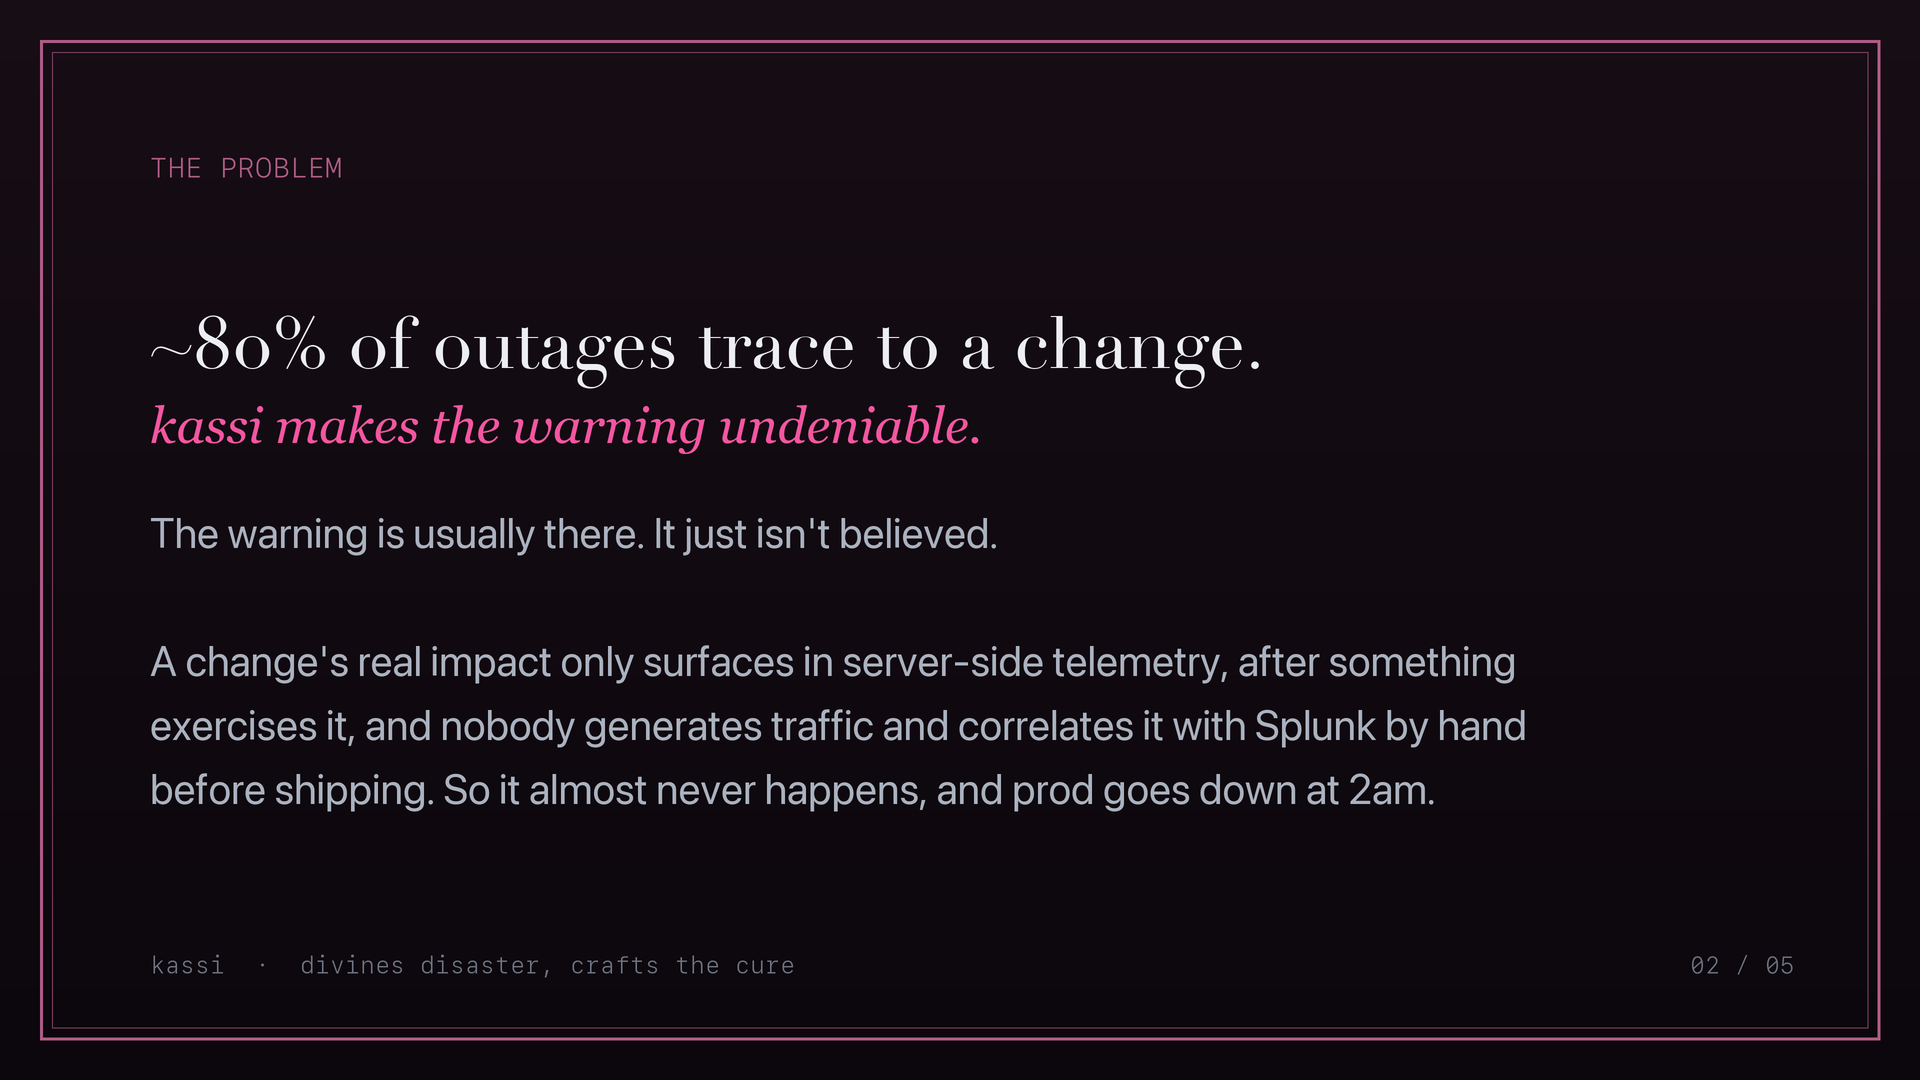
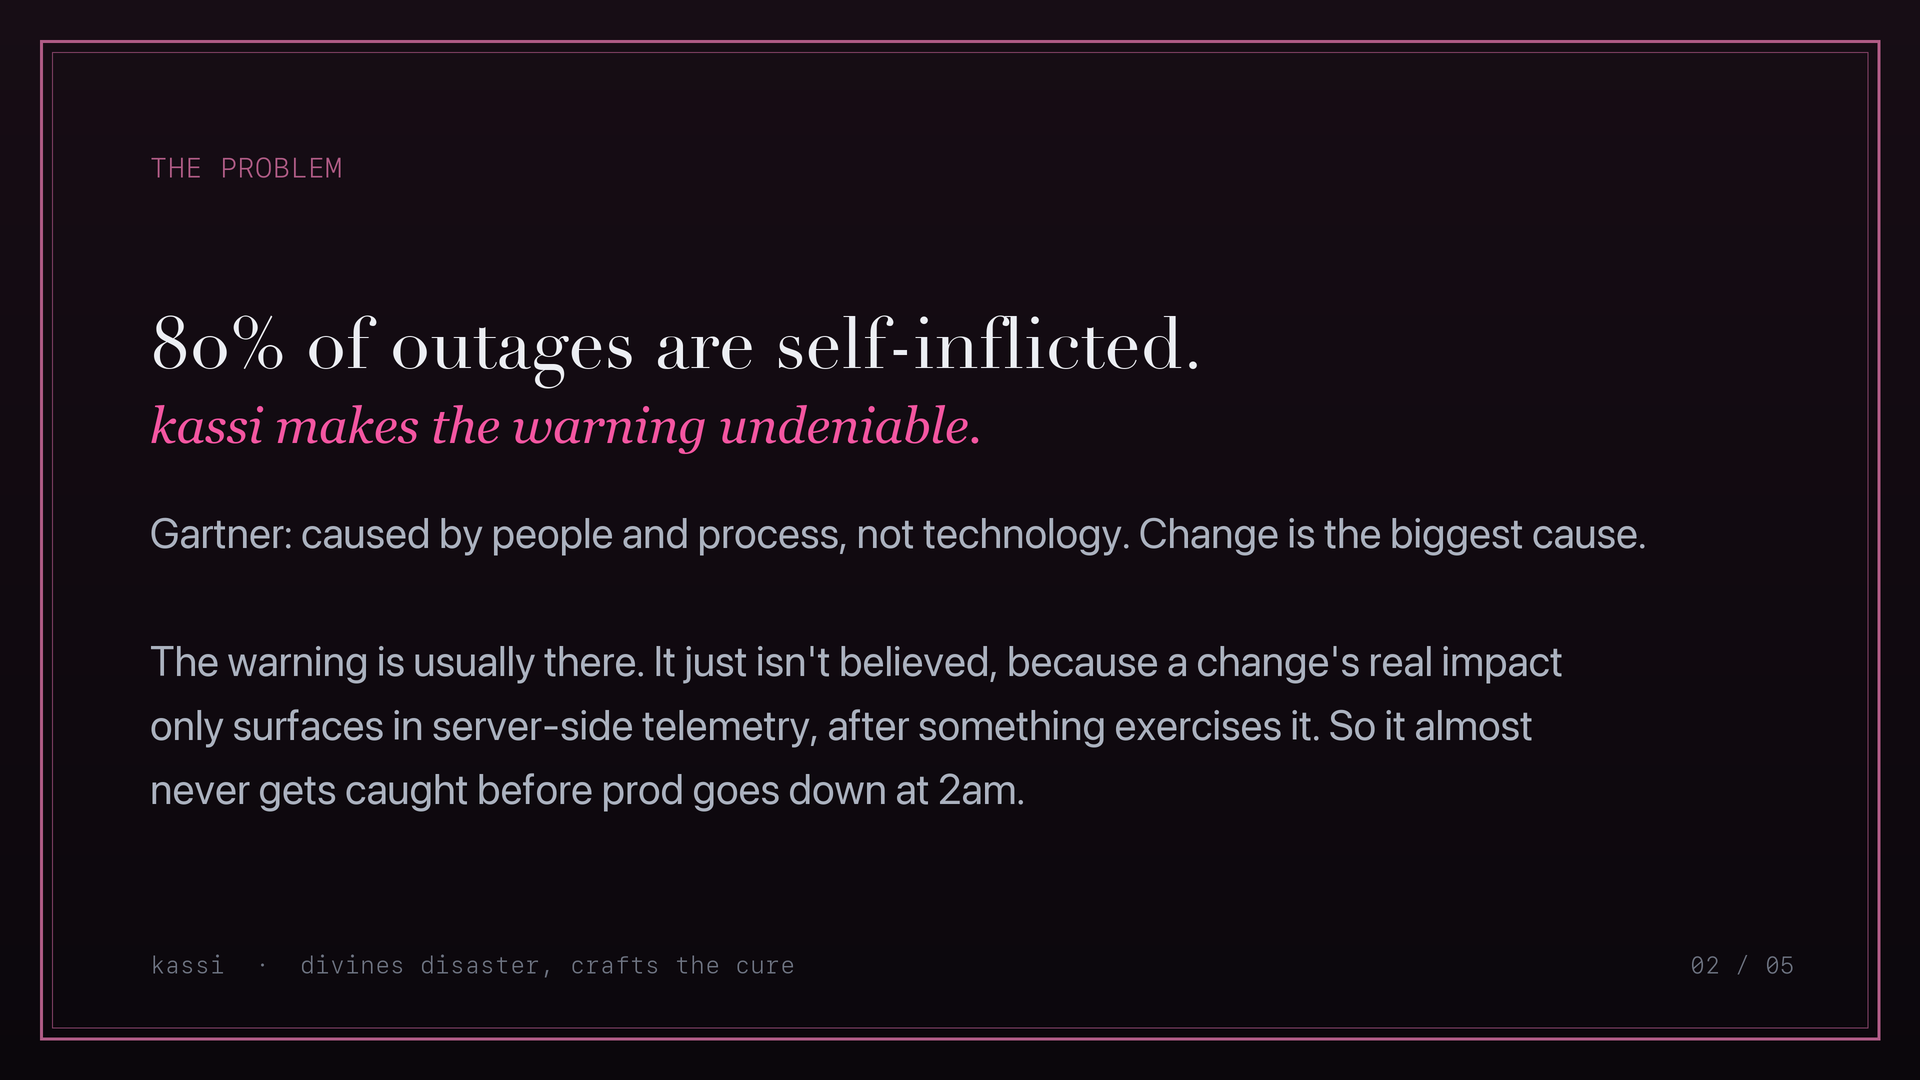
docs: tighten the 80% claim to the accurate, attributed Gartner finding
The figure is 80% of unplanned downtime from people and process (Gartner), with
change as the single biggest cause, not '80% of outages trace to a code change'.
Fix the problem slide and the two SUBMISSION occurrences; re-stitch the video.

Changed region(s): [[0.0625, 0.5806, 0.8125, 0.7639], [0.0625, 0.275, 0.6562, 0.3667], [0.0625, 0.4889, 0.875, 0.5194]]

diff --git a/scripts/make_slides.py b/scripts/make_slides.py
@@ -69,14 +69,14 @@ SLIDES = [
     },
     {  # 2. WHY
         "kicker": "THE PROBLEM",
-        "title": "~80% of outages trace to a change.",
+        "title": "80% of outages are self-inflicted.",
         "title_size": 72,
         "body": [
-            "The warning is usually there. It just isn't believed.",
+            "Gartner: caused by people and process, not technology. Change is the biggest cause.",
             "",
-            "A change's real impact only surfaces in server-side telemetry, after something",
-            "exercises it, and nobody generates traffic and correlates it with Splunk by hand",
-            "before shipping. So it almost never happens, and prod goes down at 2am.",
+            "The warning is usually there. It just isn't believed, because a change's real impact",
+            "only surfaces in server-side telemetry, after something exercises it. So it almost",
+            "never gets caught before prod goes down at 2am.",
         ],
         "accent": "kassi makes the warning undeniable.",
     },

diff --git a/docs/SUBMISSION.md b/docs/SUBMISSION.md
@@ -4,8 +4,9 @@
 > the fix, a remediation diff, before production ever sees it. Cassandra foresaw disaster and
 > was never believed; kassi's prophecy comes with proof, and a patch.
 
-**Elevator pitch.** Roughly 80% of production outages are self-inflicted, they trace back to a
-change. The warning is usually there; it just isn't believed, because a change's real impact
+**Elevator pitch.** Roughly 80% of production outages are self-inflicted: Gartner attributes
+unplanned downtime to people and process rather than technology, and change is the single biggest
+cause. The warning is usually there; it just isn't believed, because a change's real impact
 only surfaces in server-side telemetry after something exercises the system, and nobody
 generates traffic and correlates it with Splunk by hand before shipping. kassi closes that loop
 autonomously. Point it at a code change and it exercises the affected endpoints through the
@@ -27,7 +28,8 @@ and `docs/SPLUNK_SETUP.md`. Built new during the submission period for this hack
 
 ## Inspiration
 
-Roughly 80% of production outages are self-inflicted, they trace back to a change, which is
+Roughly 80% of production outages are self-inflicted: Gartner attributes unplanned downtime to
+people and process rather than technology, and change is the single biggest cause, which is
 why "change failure rate" is one of the four DORA metrics teams are measured on. And every
 engineer has been Cassandra about a change: you sensed it was risky, you couldn't prove it, it
 shipped, and it took down prod at 2am. The warning existed; it just wasn't believed. The reason